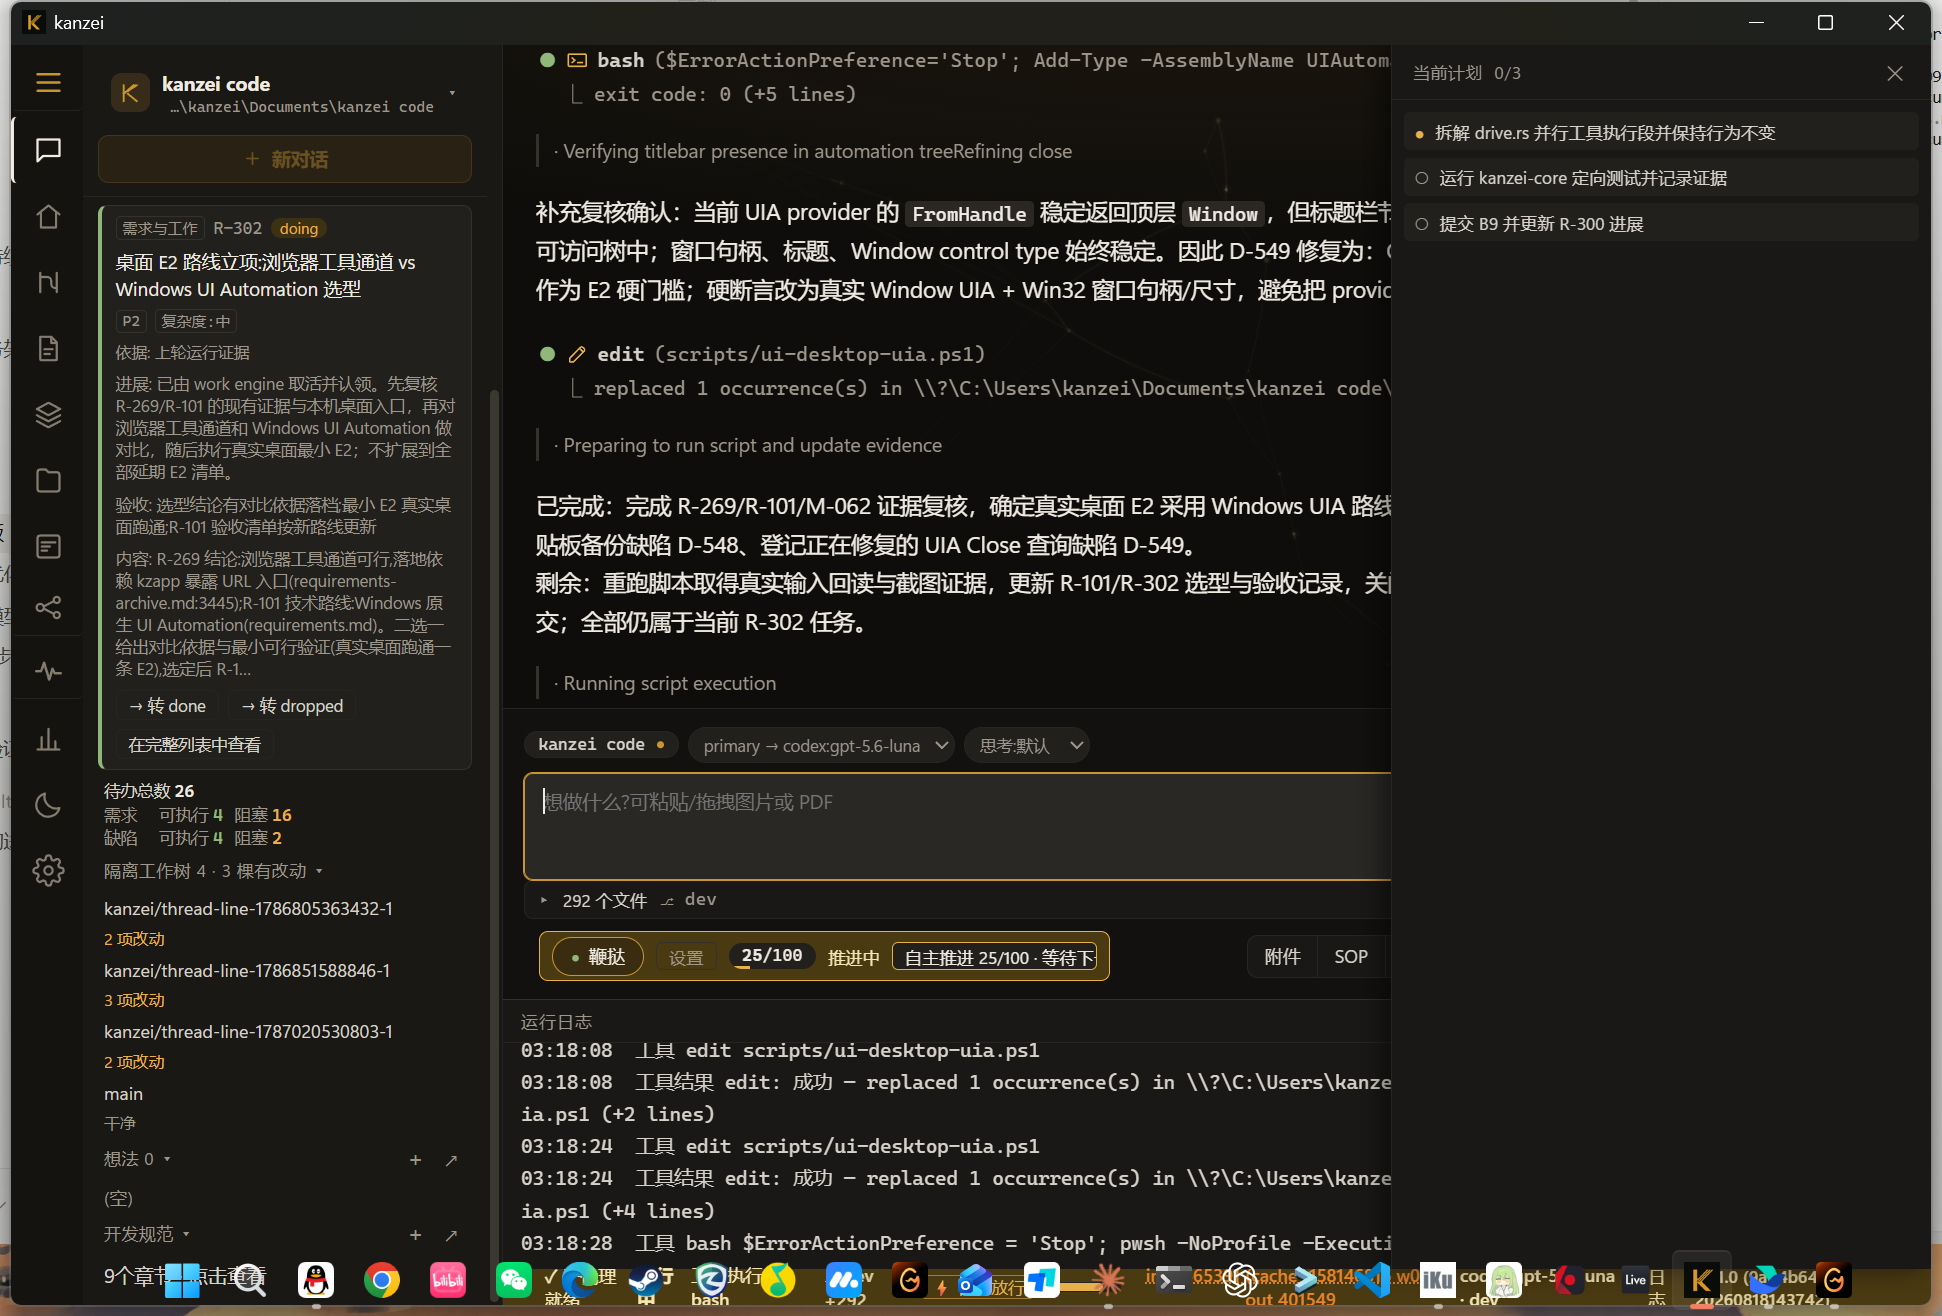
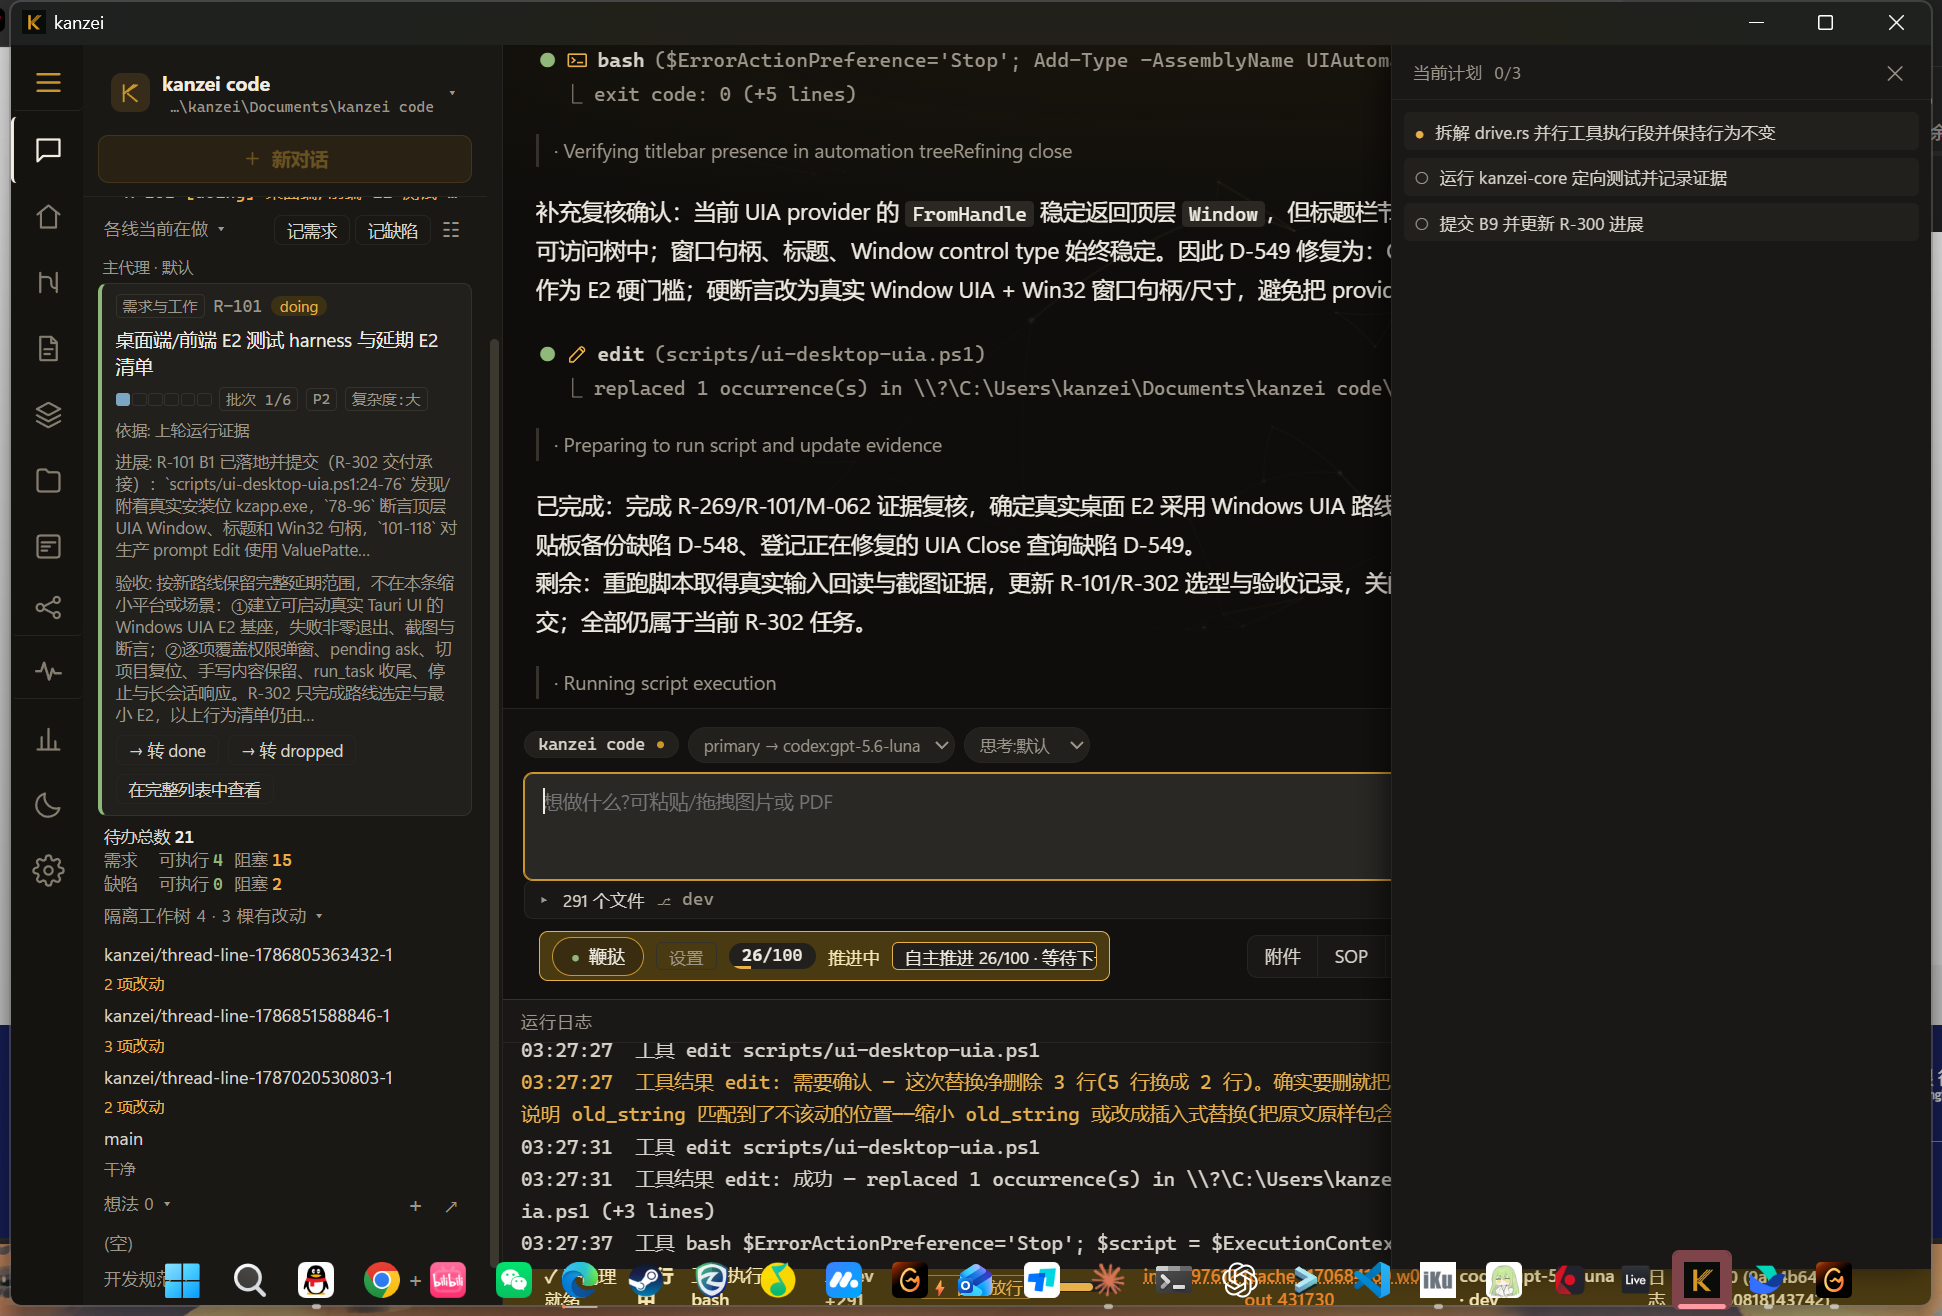
R-101 B2 增加 UIA 视图切换后手写内容保留 E2

diff --git a/.kanzei/project/requirements.md b/.kanzei/project/requirements.md
@@ -86,16 +86,17 @@
 
 - 拆批: 2026-08-08 用户定调「拆出能先做的部分」: **本轮可做**——harness 基座本身(仓库补 package.json、选定并接入 WebView 驱动、安全启动真实 UI、截图与断言框架、失败非零退出),以及不涉及多会话的 E2:D-060 手写内容保留与并发写入、D-086 task→subagent read 拦截、D-064 注入故障的 run_task 收尾、D-066 真实 Window/provider 停止。基座 + 四条 E2 交付即可关闭本条;R-086 已于本轮按 §1.2 可用即关闭关闭,原「并入 R-086 验收」的三条桌面 E2(D-051 桌面权限弹窗真实 UI、D-055 切回进程补发 pending ask、D-056 运行中切项目终态复位)留在本条目验收清单执行。
 
-- 进展: R-302 已选定 Windows 原生 UI Automation：R-269 浏览器工具保留为 headless 开发自检，不等同桌面 E2；本机 WebView2 CDP 不可用。`scripts/ui-desktop-uia.ps1` 已在真实安装位通过顶层 Window/Win32 句柄、生产 `prompt` Edit + ValuePattern 写入回读、真实截图和进程收尾；T-1786922726466、T-1786922726467、T-1786922726468。原阻塞已解除，R-101 后续按完整权限弹窗、pending ask、切项目复位、手写内容保留、run_task 收尾、停止与长会话响应清单推进。
+- 进展: R-101 B2 已落地：扩展 `scripts/ui-desktop-uia.ps1:78-95` 的 UIA 按真实按钮名称查找与 prompt 重取；`117-165` 通过生产 `ValuePattern` 写入 R101 marker，使用真实 `InvokePattern` 切换需求/缺陷视图再切回对话，并回读 marker；`157-164` finally 无论成功失败都恢复原 prompt 值，不发送请求、不改项目数据。T-1786922726469 原样命令 `PowerShell Parser::ParseFile scripts/ui-desktop-uia.ps1; pwsh -NoProfile -ExecutionPolicy Bypass -File .\scripts\ui-desktop-uia.ps1` 通过：真实安装位 PID 25652、视图切换后 marker 保留、截图 450506 bytes、用户进程未被接管。提交前下一步：暂存并提交 B2，随后 B3 选择真实停止或 run_task 收尾 E2；权限/pending ask/切项目多会话场景仍保留在后续批次，未被本批替代。
 - 状态纠正(2026-08-09): doing→todo。用户已挂起本条,实际不在推进中,却按旧 §1.1 口径占用 doing 名额,与 R-148 一起把 R-153 拒之门外(见 D-219)。恢复推进时再转 doing;挂起前提的小缺陷中 D-185/D-184 仍 open。
 
 - 阻塞: 
 
-- 批次: 0/6
+- 批次: 2/6
 - 技术路线: Windows 原生 UI Automation/真实 WebView2 用户路径已选定。基座通过 `scripts/ui-desktop-uia.ps1` 以 UIA 附着真实安装位 kzapp.exe、断言顶层 Window、通过生产 prompt 的 ValuePattern 写入/回读，并保存真实窗口截图；CDP/connectOverCDP 不再作为路线或验收条件。
-- observed_head: 676fddefe6d82f7442035b81b8d65efe0b71ccfa
-- observed_worktree_hash: fnv1a64:4dc73574e4527fea
-- recorded_at: 1787080915782
+- observed_head: c72207489acb82e35cf1dc5c00fba1e7c72c0a11
+- observed_worktree_hash: fnv1a64:3499fac86c569459
+- recorded_at: 1787081288561
+- 取活依据: engine:唯一可执行 WIP 是 R-101，必须先恢复它
 
 ## R-242 会话投影真源切换与分段清空恢复 [doing]
 - refs: D-209 D-342 D-417 R-236 R-279 docs/design/deepseek_harness_upgrade.md

diff --git a/.kanzei/project/tests-archive.md b/.kanzei/project/tests-archive.md
@@ -8001,3 +8001,11 @@ print(json.dumps({'total': total, 'linked': linked, 'orphaned': total - linked},
 - 关联: R-302
 - 收尾: 1787080898
 - 源码指纹: v2 scripts/ui-desktop-uia.ps1@62f2896acdec
+
+## T-1786922726469 R-101 B2 UIA 视图切换后手写 prompt 保留 [passed]
+- 命令: PowerShell Parser::ParseFile scripts/ui-desktop-uia.ps1; pwsh -NoProfile -ExecutionPolicy Bypass -File .\scripts\ui-desktop-uia.ps1
+- 时长: 3.1s
+- 摘要: 真实安装位 kzapp.exe（PID 25652）通过 UIA 写入 marker；切换生产“需求/缺陷”视图并切回“对话”后回读 marker 成功；原 prompt 值已恢复；真实截图落盘 450506 bytes；测试未发送请求、未修改项目数据、未接管用户进程。
+- 关联: R-101
+- 收尾: 1787081275
+- 源码指纹: v2 scripts/ui-desktop-uia.ps1@777d2aba1b15
